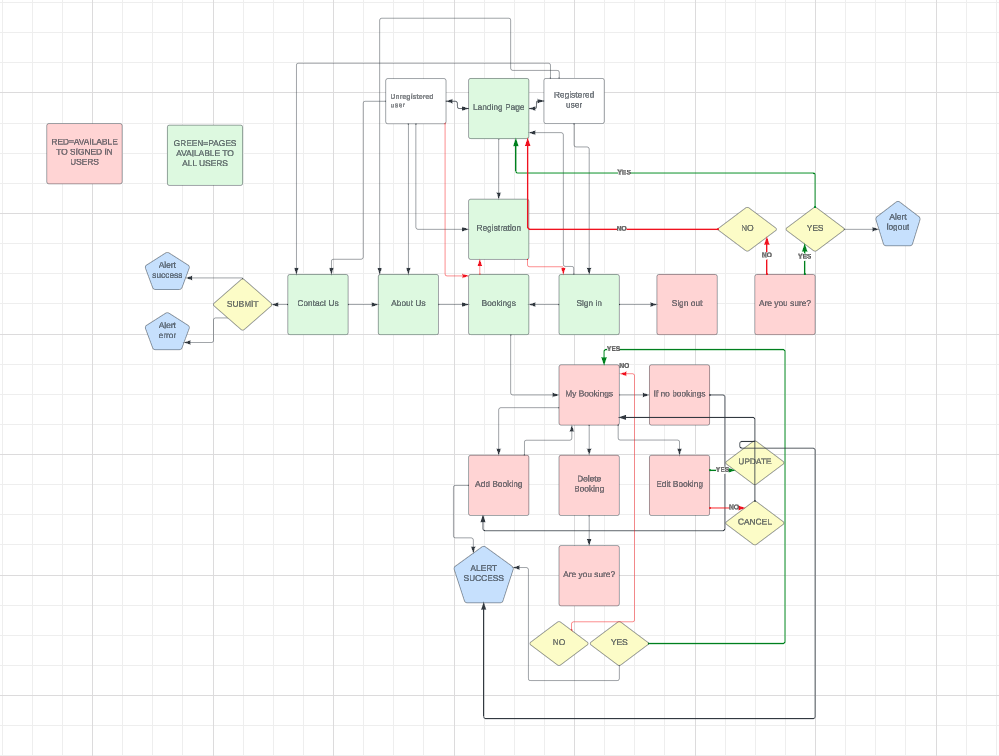
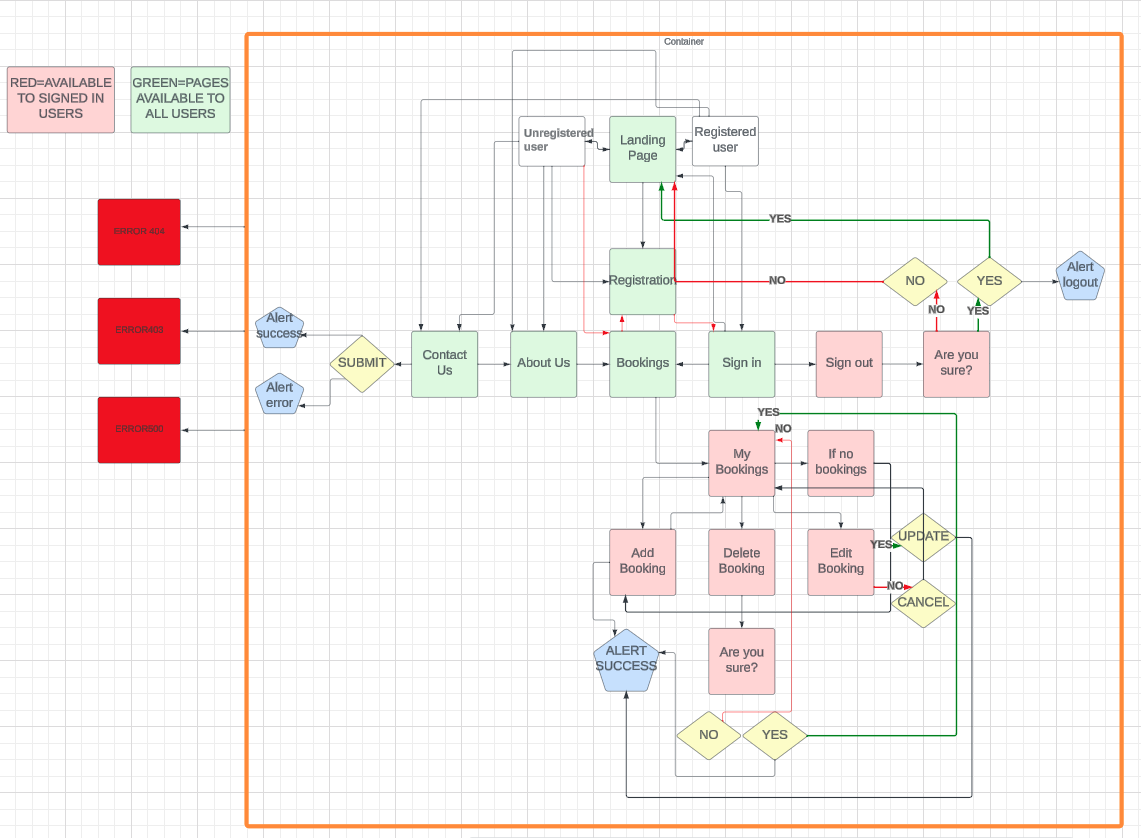
Described views and how they will change depending on if user is authenticated or not

diff --git a/README.md b/README.md
@@ -66,60 +66,107 @@ The main goals for this project was:
 * Set up email functionallity and use auto-reply
 
 ## User Stories
-
 The Mucle Factory project was planned trough user stories. Theese stories were created from a user and site owner perspective. The stories describes what the project should include and would set the over all planing structure.
 
 One importent part of this project was to use a agile development method. This would make the customers perspective very important but since this is not a real project with real customers, user stories were made up by creating potential customers and site owners. 
 
-In agile development iterative and incremental development is a very important part. So by adressing user stories the development of building The Muscle Factory could be split into smalller and easier to manage segments that could be iterated and improved by each iteration. 
+In agile development iterative and incremental development is a very important part. Each user storie represents a smaller and easier to manage part of the project. This helped a lot with planing the workload. 
 
 As there was not a team bulding this project it might be hard to fully grasp the concept of agile development, since teamwork is a big part of that. Instead of having a team, I choose to create a chatgroup on Slack. Working with the critisim I got from fellow students, this turned out to be a very good idea. I got a lot of feedback that I later on implemented in my project, so big credits to my fiends on Slack. 
 
 A Kanban board was created on GitHub to structure the project development. By taking all my user stories and labeling with their significanse for this project, it was a lot easier to assess each user storie after their relevance.
 
-Not all user stories were finished, but they all user stories with the label "MUST HAVE" were completed.
-
-
-![User Stories](./themusclefactory/docs/readme%20docs/UX.png)
+Not all user stories were finished, but all user stories with the label "MUST HAVE" were completed.
 
 [Click to view Kanban board](https://github.com/users/ElinaBoman/projects/5/views/1)
 
-### #2 As a user I can make bookings on the website so that I can plan my schedule
-The user can create bookings and also view them on the website. 
+![User Stories](./themusclefactory/docs/readme%20docs/UX.png)
 
 
-### #3 As a user I can edit/delete bookings on the website so that I can change my schedule
+
+
+### User Stories Implementation
+-  #2 As a user I can make bookings on the website so that I can plan my schedule
+The user can create bookings and also view them on the website.
+
+
+-  #3 As a user I can edit/delete bookings on the website so that I can change my schedule
 There are options for the user to edit and delete their bookings.
 
-### #4 As a user I can create an account so I can see my bookings
-There is a fully functioning authentication system so each user can view their own bookings and manage them. 
+-  #4 As a user I can create an account so I can see my bookings
+There is a fully functioning authentication system so each user can view their own bookings and manage them.
 
-### #5 As a site owner I can create events so that I can display them on the website
+-  #5 As a site owner I can create events so that I can display them on the website
 In the admin panel the site owner can create events so that the website is allways up to date.
 
-### #6 As a site owner I can edit events so that I can display changes on the website
+-  #6 As a site owner I can edit events so that I can display changes on the website
 The site owner can manage the events, including changing published events.
 
-### #7 As a site owner I can get in contact with clients so that I can connect with clients
+-  #7 As a site owner I can get in contact with clients so that I can connect with clients
 There is a contact form on the website collecting user information entered by the user. The user can, of course, choose if they want to display their full name and phone number; only the name and email are required. User informaiton is displayed in the admin panel.
 
-### #8 As a site owner I can delete events so that I can remove it from the website
+-  #8 As a site owner I can delete events so that I can remove it from the website
 The events can be deleted in the admin panel.
 
-### #9 As a user I can see available dates in a calendar so that I can schedule private sessions
+-  #9 As a user I can see available dates in a calendar so that I can schedule private sessions
 The booking form will only show available dates and time in their widgets.
 
-### #10 As a site owner I can display pictures of the gym so I can attract more clients
+-  #10 As a site owner I can display pictures of the gym so I can attract more clients
 This has not been fully completed. There is a picture of the gym in the Bootstrap carousel, but it's not clear enough that the image represents the gym. This would be a future implementation.
 
-### #11 As a site owner I can display and edit information about employees specialization so that I can attract more clients
+-  #11 As a site owner I can display and edit information about employees specialization so that I can attract more clients
 This has not been completed. Even tough there is information about the employees, the admin does not have the abillity to change this information yet. This would me a future implementation. 
 
-### #12 As a user I can use the website on my phone so that I can make, edit and delete bookings with ease from my phone
+-  #12 As a user I can use the website on my phone so that I can make, edit and delete bookings with ease from my phone
 The website is fully responsive and all booking features works on all viewports.
 
-### #13 As a site owner I can display information on the website so that I can inform clients about services and events
+-  #13 As a site owner I can display information on the website so that I can inform clients about services and events
 All services are described on the website.
+
+
+## Flowchart
+
+### Front End Structure
+The Muscle Factory website is devided between if a user is authenticated or not. To view the full front end website the user must be registrerd and signed in. 
+
+#### For a user who is not signed in following views avaialable are:
+- Home
+
+    - This is the landing page. Here, any user can read about membership prices and view some inspirational paragraphs. There is also a button that will take unregistered users to the registration form.
+
+- Registration:
+    - Here the user can sign up for an account.
+- Contact Us
+    - Here the any user can send an email to The Muscle Factory.
+
+- About Us
+    - Here any user can read about the company, employees and services. 
+
+- Bookings
+    - This view will inform user in order to create a booking he/she needs an account. The user is provided a link to registration.
+
+
+#### For a user who is signed in, following views are avaialable:
+- Home
+    - Registration button is exchanged with a greating to user.
+- Contact Us
+- About Us
+- Bookings
+    - When user is authenticated bookings view will allow user to enter a booking trough a form.
+- My Bookings
+    - Here all bookings made by a user will be displayed and provide CRUD functionality.
+- Logout
+    - For user to sign out.
+
+
+
+
+
+
+
+
+
+
 
 
 
